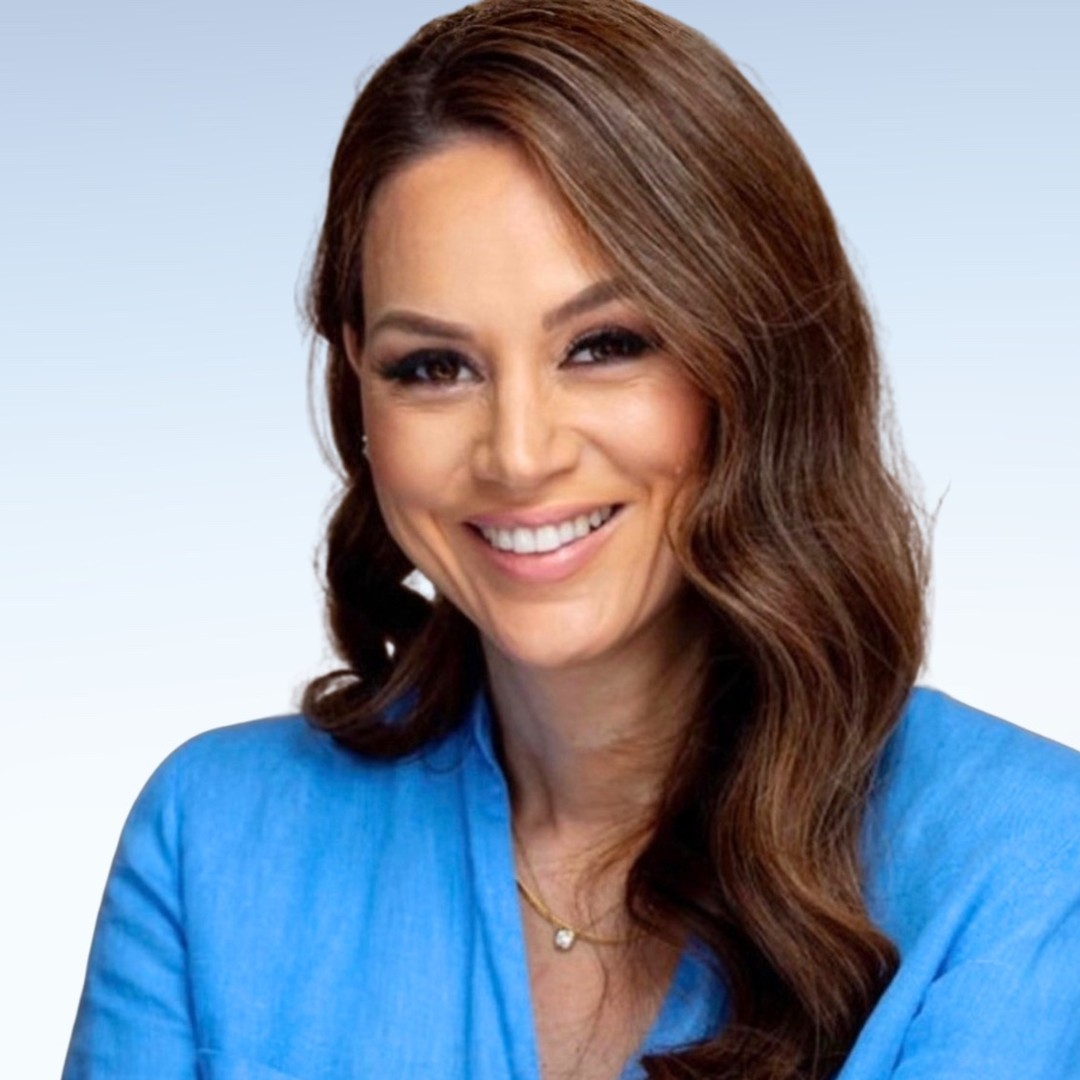
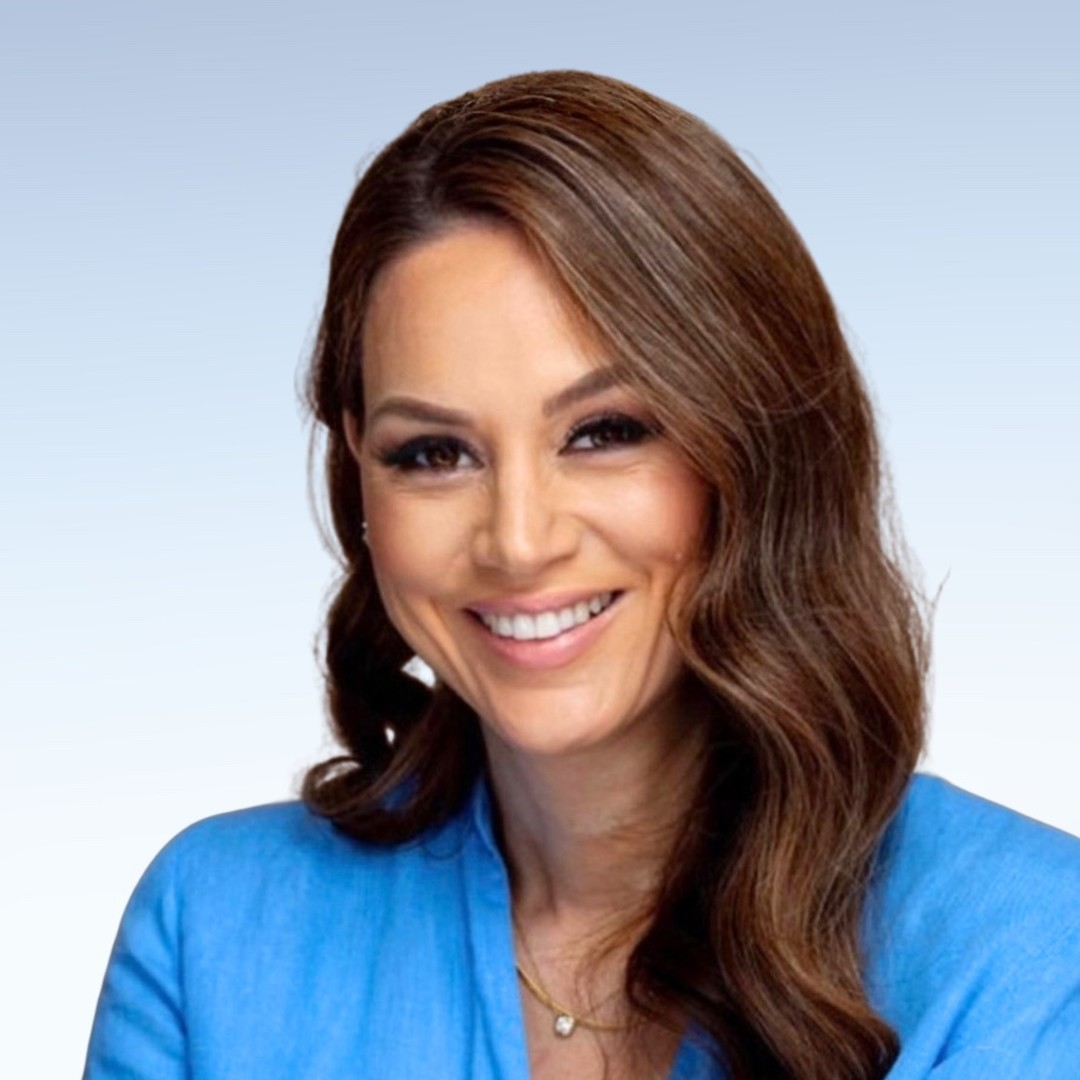
Lower Dr. Regine Muradian's photo to leave space above head
Claude-Session: https://claude.ai/code/session_01UY2yYSyHezMTLTrkPybDFD

diff --git a/team.html b/team.html
@@ -105,7 +105,7 @@
       </div>
       <div class="team-grid team-grid-advisory team-grid-leads team-grid-leads-4">
         <div class="team-card">
-          <div class="team-photo"><img src="assets/regine-muradian.jpg?v=3" alt="Dr. Regine Muradian"></div>
+          <div class="team-photo"><img src="assets/regine-muradian.jpg?v=4" alt="Dr. Regine Muradian"></div>
           <h3>Dr. Regine Muradian</h3>
           <p class="role"><a href="adlea-leadership-roles.html#wellbeing-guide">Wellbeing Guide</a></p>
           <a class="more" href="adlea-lead-guide-bios.html#regine-muradian">Learn more &#8594;</a>

diff --git a/adlea-lead-guide-bios.html b/adlea-lead-guide-bios.html
@@ -146,7 +146,7 @@
       </div>
 
       <div id="regine-muradian" class="bio-section">
-        <div class="bio-photo"><img src="assets/regine-muradian.jpg?v=3" alt="Dr. Regine Muradian"></div>
+        <div class="bio-photo"><img src="assets/regine-muradian.jpg?v=4" alt="Dr. Regine Muradian"></div>
         <div class="bio-text">
           <span class="eyebrow">Lead Guide</span>
           <h2>Dr. Regine Muradian</h2>
